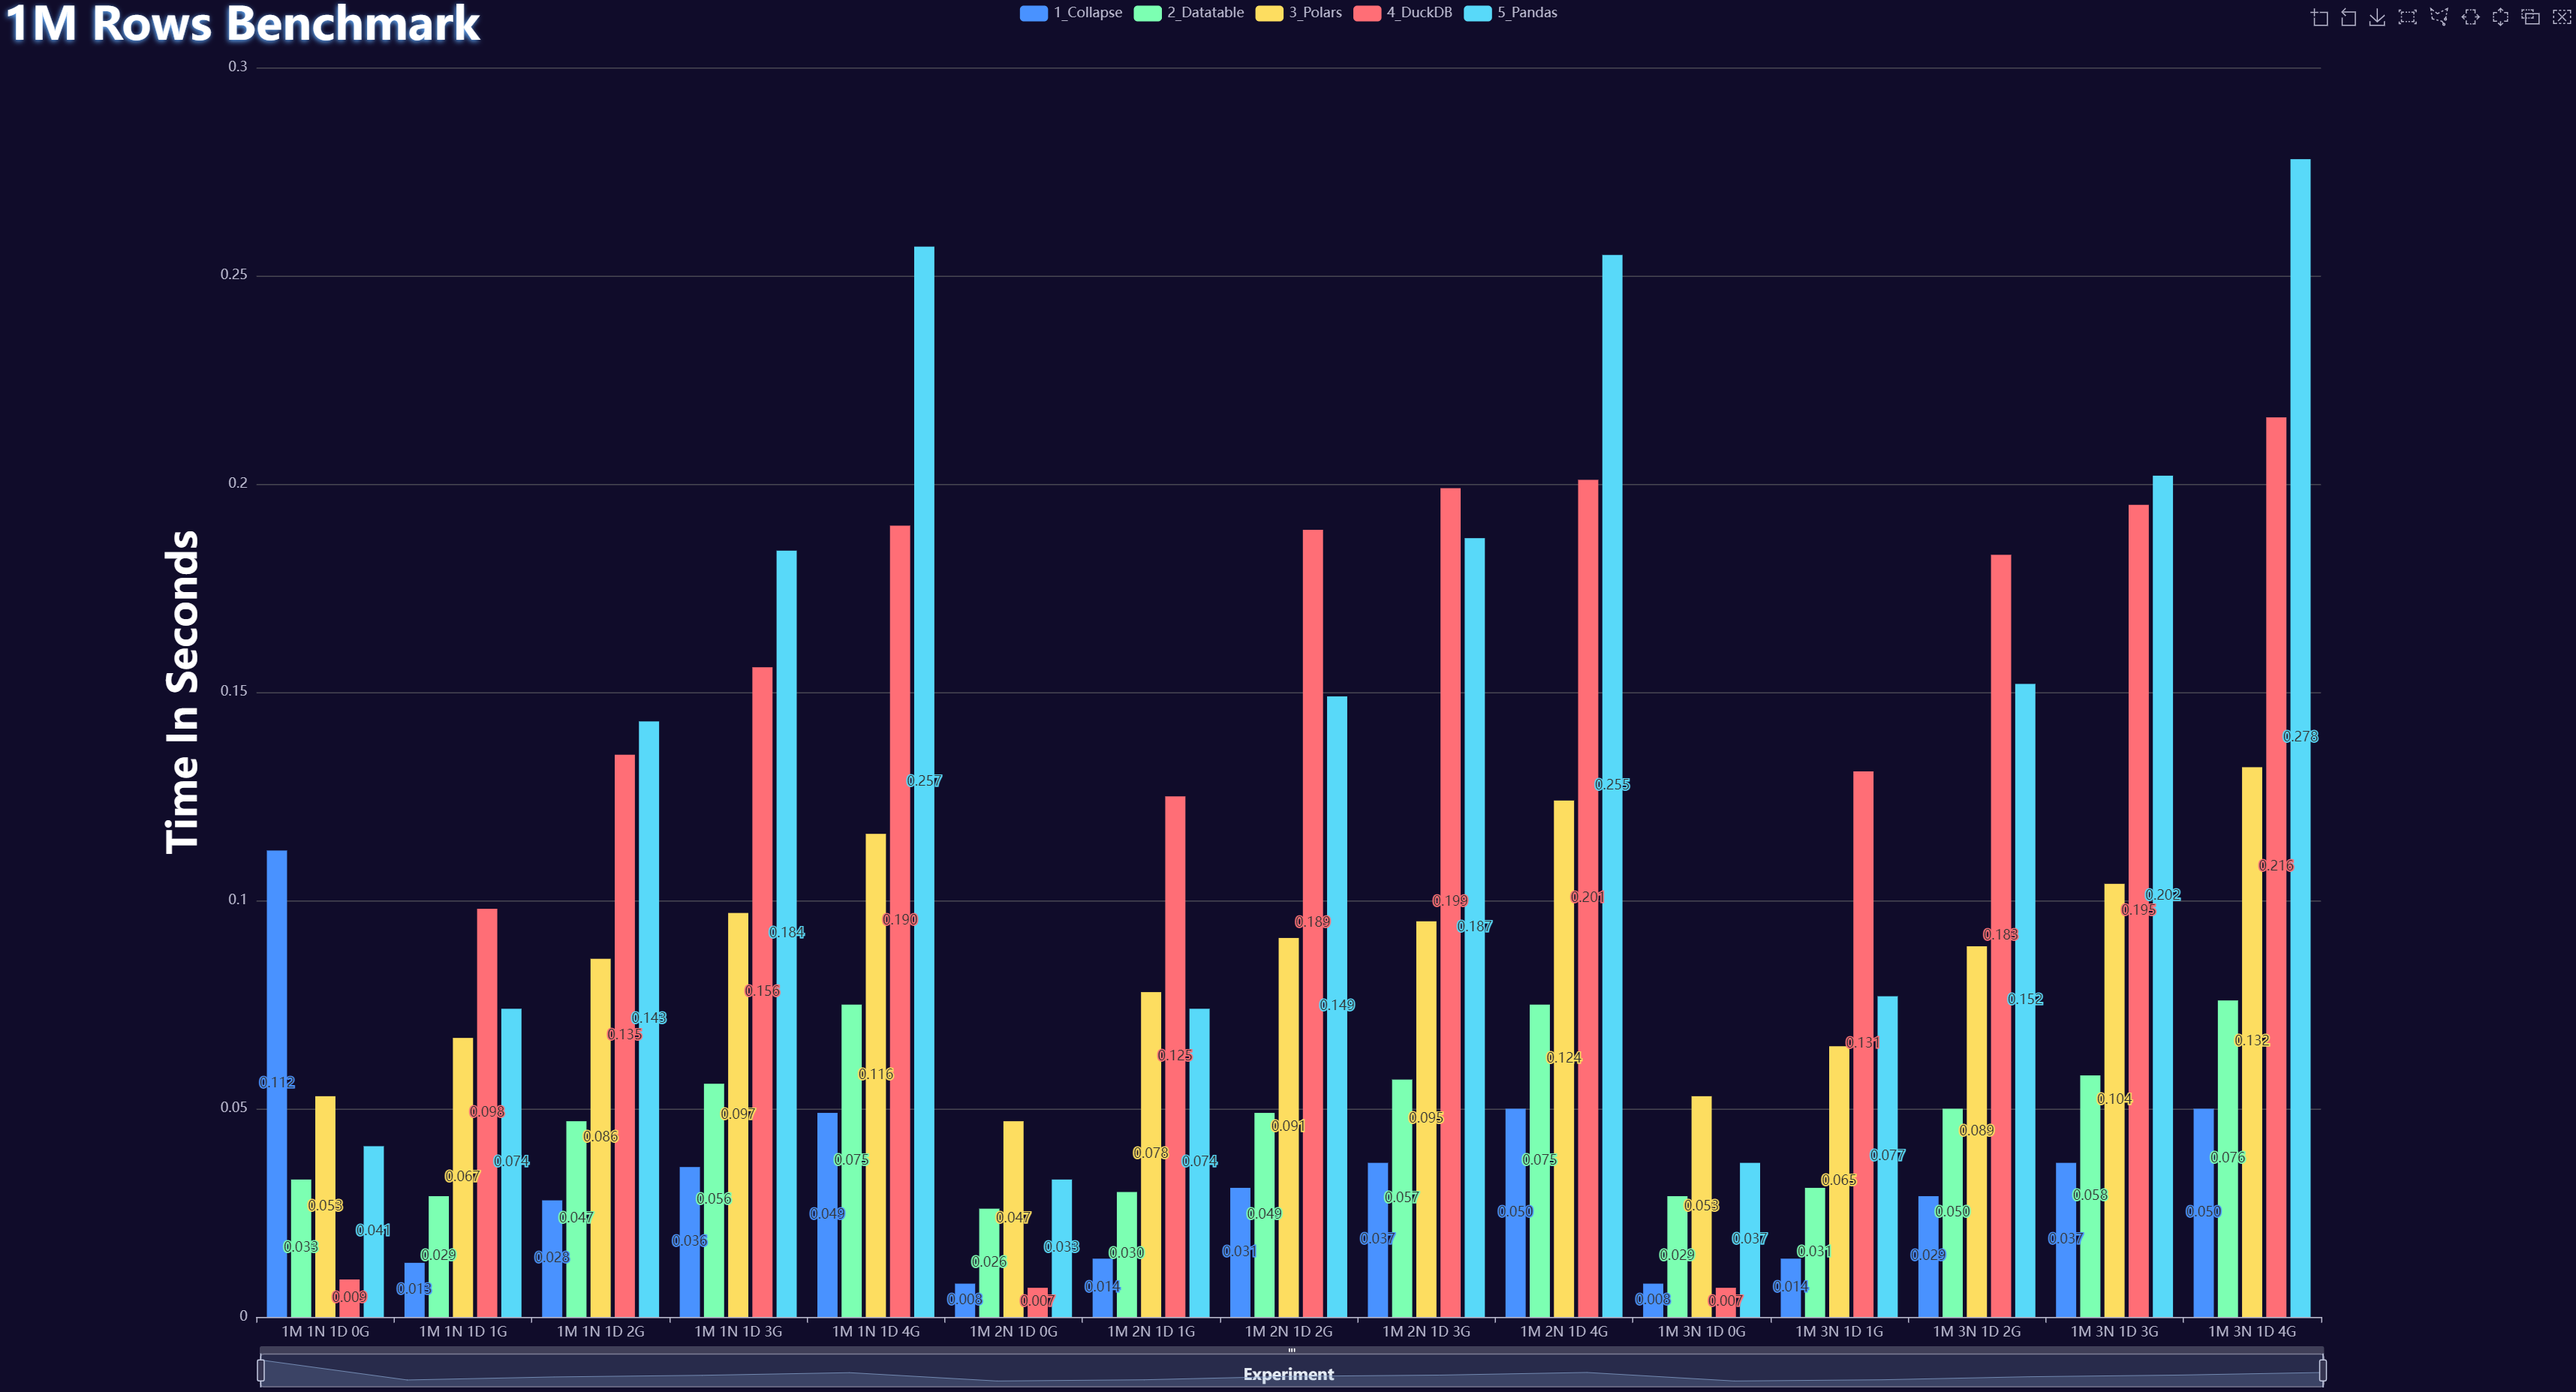
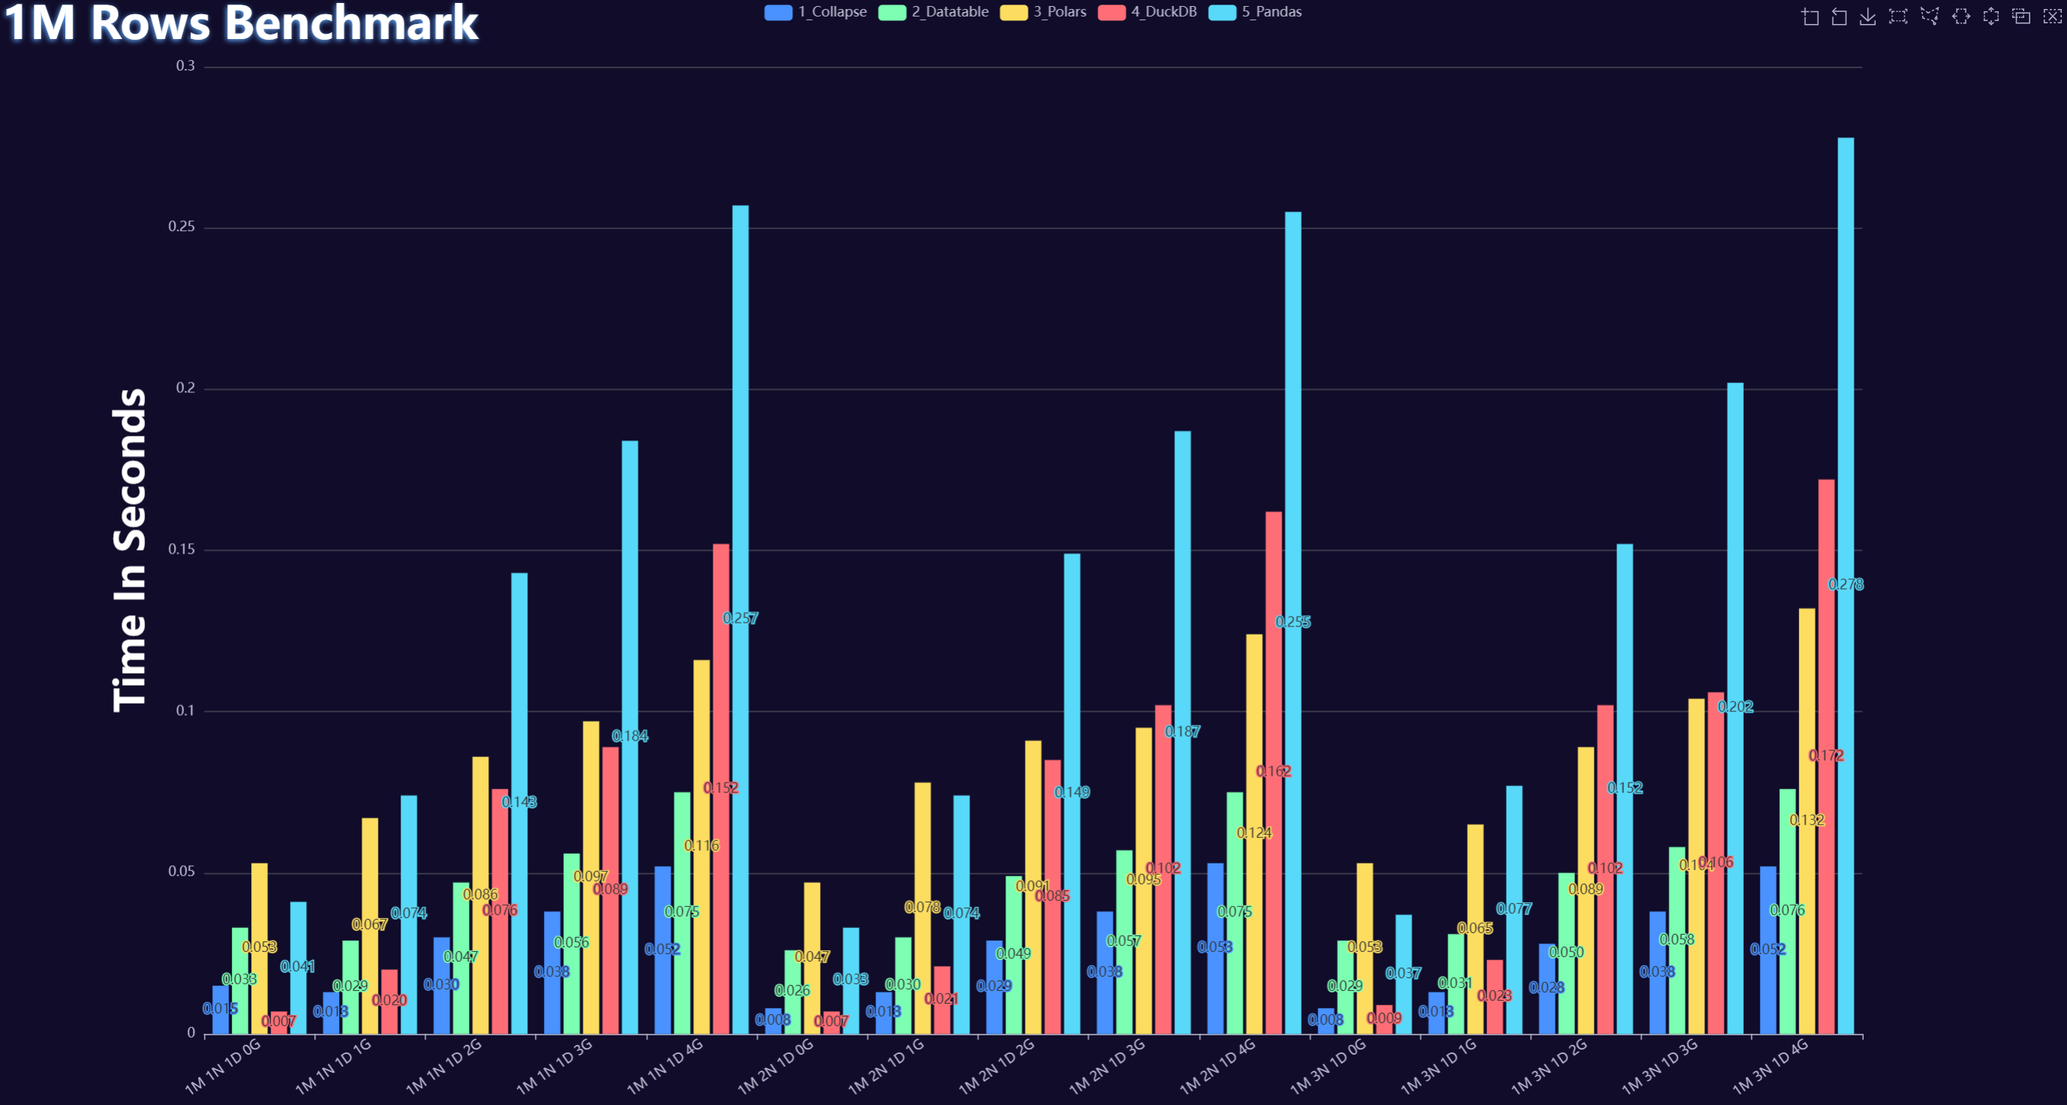
Updates

diff --git a/README.md b/README.md
@@ -20,7 +20,7 @@ The datasets utilized replicates a real world example of a beverage company's da
 * Group-By with Sum Aggregation
 * Melt
 * Cast
-* Lag (coming soon)
+* Lags
 
 <br>
 
@@ -74,6 +74,22 @@ The datasets utilized replicates a real world example of a beverage company's da
 
 </details>
 
+### Cast Data
+<details><summary> Click here to see steps </summary>
+
+* Fork the repo and clone it to your local machine
+* Modify the Path variable at the top of each script to reflect your file location
+* Run FakeBevDataBuilds.R to generate the benchmarking datasets
+* Run Lags_datatable.R
+* Run Lags_DuckDB.R
+* Run Lags_Polars.py
+* Run Lags_Pandas.py
+* Run Lags_collapse.py
+* Run CombineResults_Lags
+* Done!
+
+</details>
+
 <br>
 
 ## Machine Specs
@@ -123,7 +139,7 @@ In the plots below the x-axis "Experiments" shows four letters with numbers in f
 
 <br>
 
-### Melt Data
+### Melt
 <details><summary> Click here to see results </summary>
 
 <br>
@@ -150,7 +166,7 @@ In the plots below the x-axis "Experiments" shows four letters with numbers in f
 
 <br>
 
-### Cast Data
+### Cast
 <details><summary> Click here to see results </summary>
 
 <br>
@@ -166,3 +182,32 @@ In the plots below the x-axis "Experiments" shows four letters with numbers in f
 ![](https://github.com/AdrianAntico/Benchmarks/raw/main/Images/100MResults_Cast.PNG)
 
 </details>
+
+<br>
+
+### Lags
+<details><summary> Click here to see results </summary>
+
+<br>
+
+![](https://github.com/AdrianAntico/Benchmarks/raw/main/Images/1MResults_Lags.PNG)
+
+<br>
+
+![](https://github.com/AdrianAntico/Benchmarks/raw/main/Images/10MResults_Lags.PNG)
+
+<br>
+
+##### With DuckDB: Note - DuckDB timed out after a few successful runs
+
+![](https://github.com/AdrianAntico/Benchmarks/raw/main/Images/100MResults_Lags_WithDuckDB.PNG)
+
+<br>
+
+##### Without DuckDB
+
+![](https://github.com/AdrianAntico/Benchmarks/raw/main/Images/100MResults_Lags_WithoutDuckDB.PNG)
+
+</details>
+
+<br>
